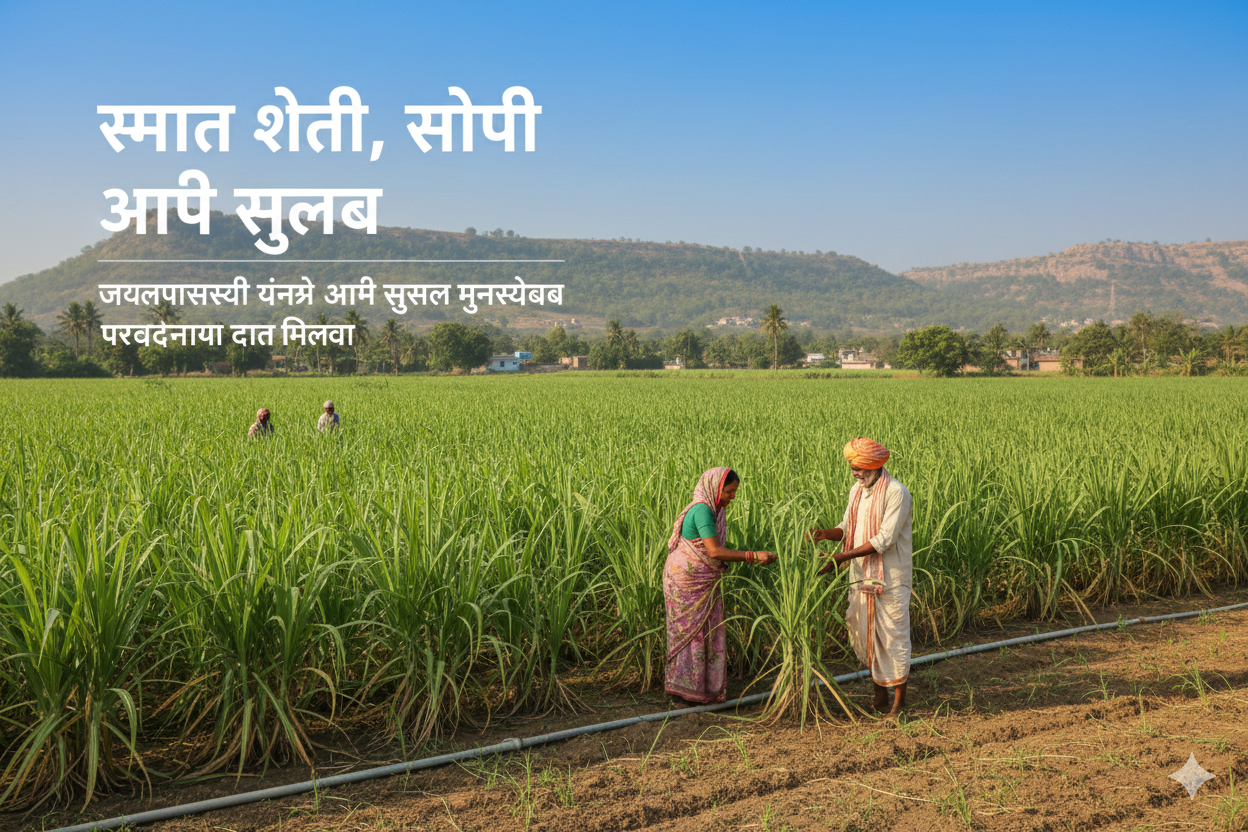
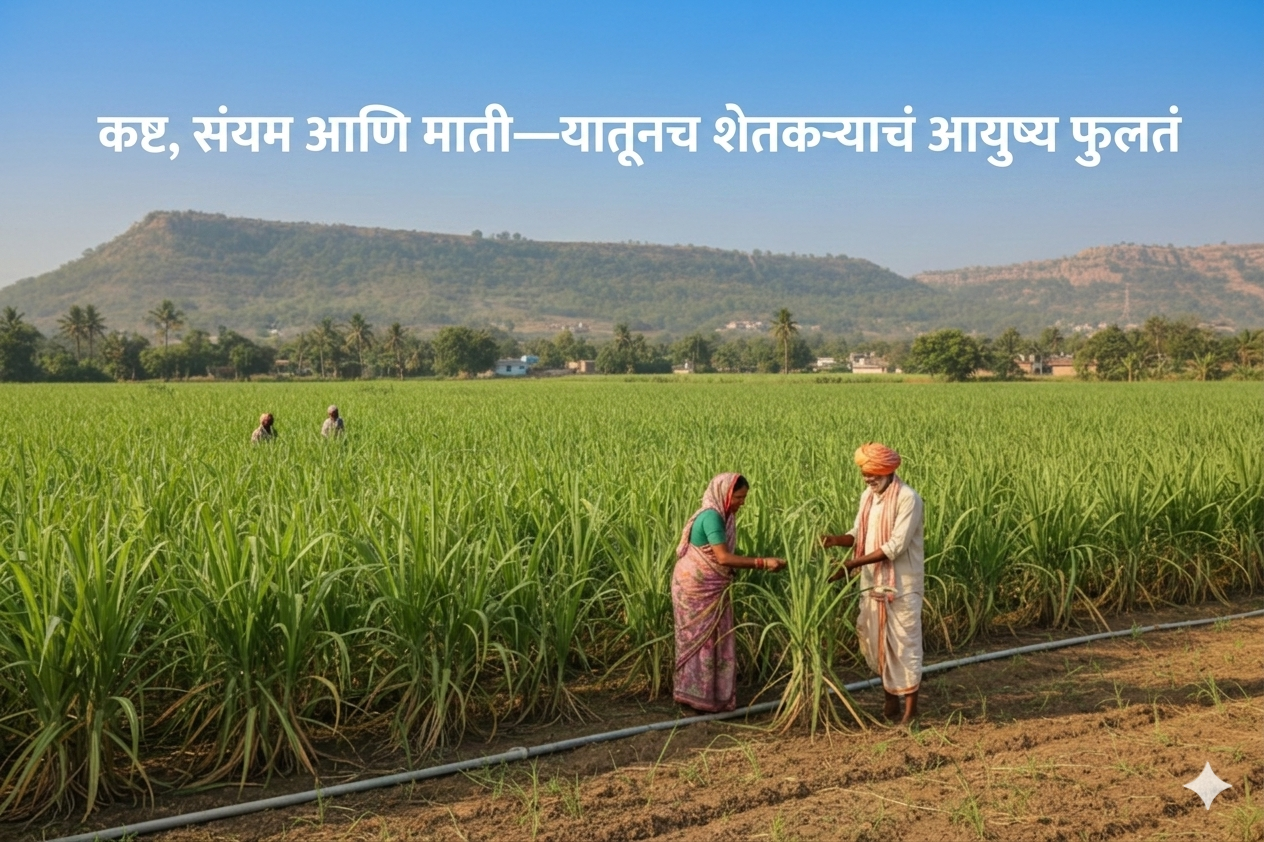
refactor: update app.json and localization files for consistency and clarity

diff --git a/components/HomeScreen.tsx b/components/HomeScreen.tsx
@@ -1,5 +1,5 @@
-import { setLocationList } from "@/services/authStorage";
 import { useLang } from "@/contexts/LanguageContext";
+import { setLocationList } from "@/services/authStorage";
 import { Ionicons } from "@expo/vector-icons";
 import * as Location from "expo-location";
 import { router } from "expo-router";
@@ -124,17 +124,6 @@ export default function HomeScreen() {
           style={s.banner}
           imageStyle={s.bannerImage}
         >
-          <View style={s.bannerOverlay}>
-            <Text style={s.bannerTitle}>
-              {t("home.rentTools")}
-              {"\n"}
-              {t("home.rentToolsDesc")}
-            </Text>
-            <TouchableOpacity style={s.bannerBtn} activeOpacity={0.85}>
-              <Text style={s.bannerBtnText}>{t("home.exploreNow")}</Text>
-              <Ionicons name="arrow-forward" size={14} color="#fff" />
-            </TouchableOpacity>
-          </View>
         </ImageBackground>
       </View>
 